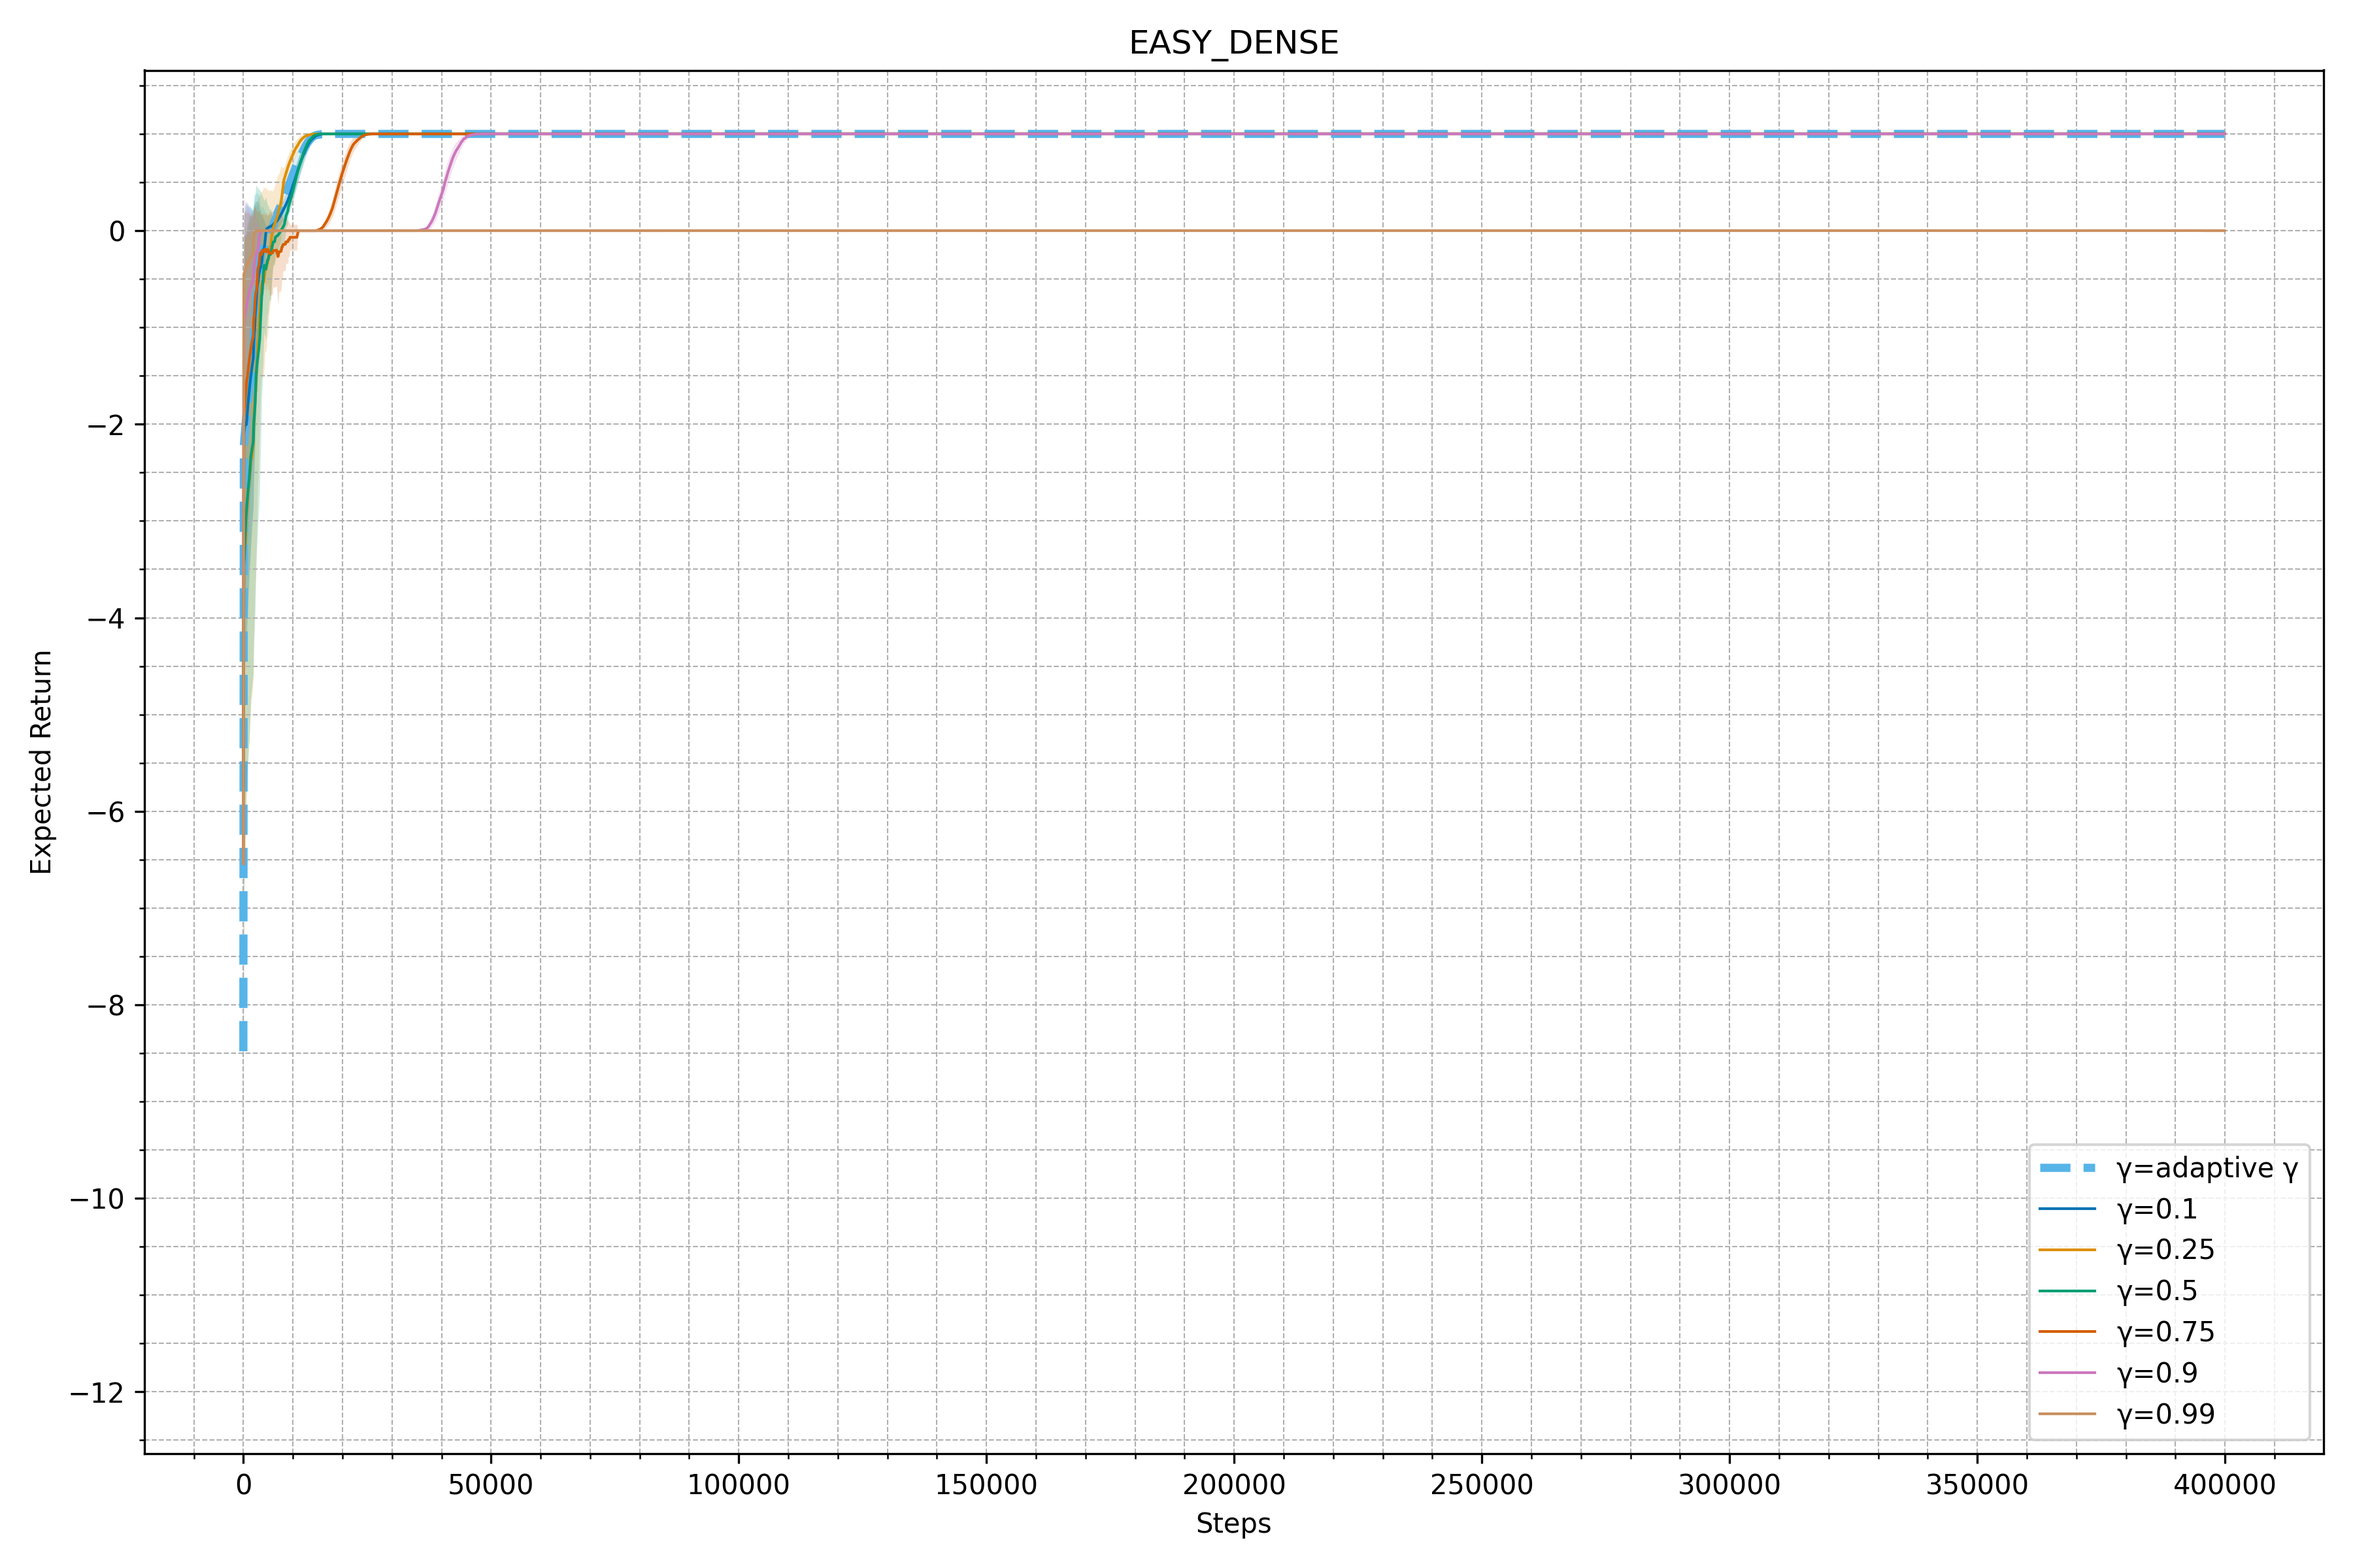
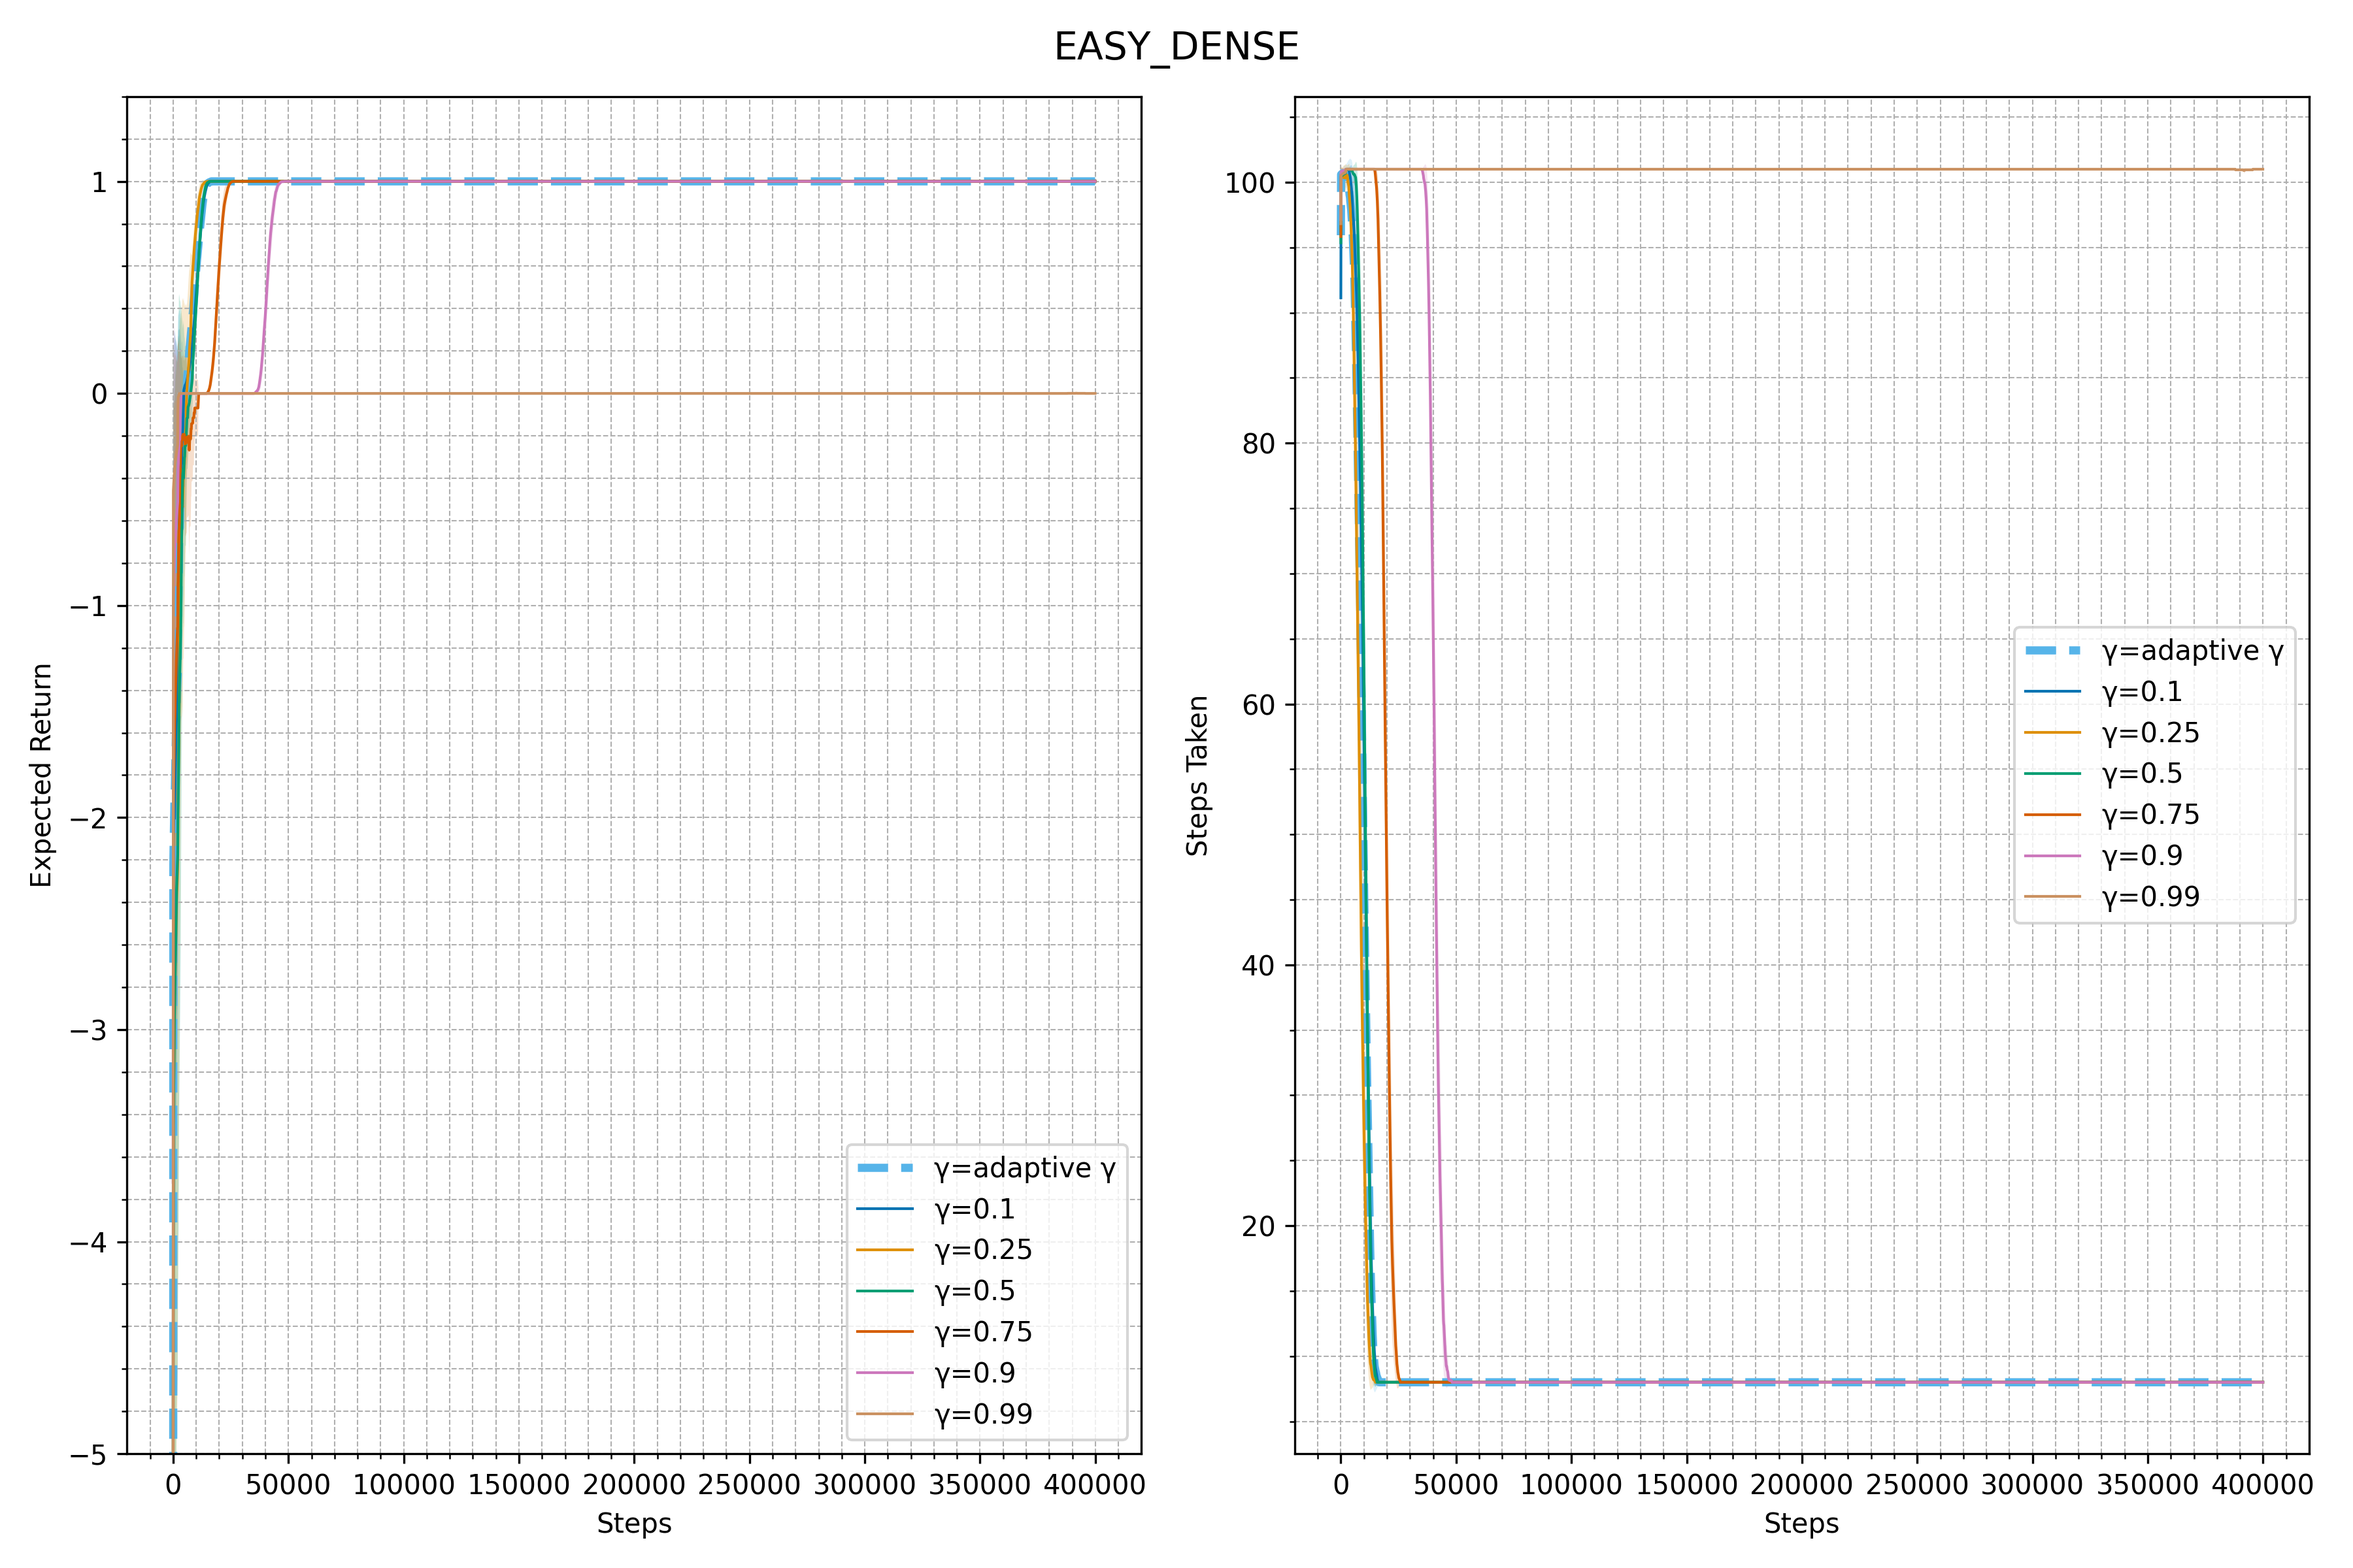
updates in plots

diff --git a/experiments/results/q-plot.py b/experiments/results/q-plot.py
@@ -31,8 +31,10 @@ def plot_separate_gamma_results(environments, gamma_values, plot_dir, eval_steps
     plt.rc("axes", prop_cycle=cycler("color", colorblind_colors))
     colors = sns.color_palette("colorblind", len(gamma_values))
 
-    for env_idx, env_name in enumerate(environments):
-        fig, ax = plt.subplots(figsize=(12, 8))
+    for _, env_name in enumerate(environments):
+        fig, axs = plt.subplots(1, 2, figsize=(12, 8))
+        fig.suptitle(f"{env_name}", fontsize=14)
+
         env_dir_na = os.path.join(save_dir_na, env_name)
         env_dir_a = os.path.join(save_dir_a, env_name)
         env_plot_dir = os.path.join(plot_dir, env_name)
@@ -49,19 +51,31 @@ def plot_separate_gamma_results(environments, gamma_values, plot_dir, eval_steps
             results = pickle.load(f)
 
         exp_ret = results["exp_ret"]
+        exp_steps = results["steps"]
         stepsize = eval_steps
 
         label = f"γ=adaptive γ"
 
         error_shade_plot(
-            ax,
+            axs[0],
             exp_ret,
             stepsize=stepsize,
             smoothing_window=20,
             label=label,
-            linestyle='--',
+            linestyle="--",
             color=colorblind_colors[-1],
-            linewidth=3.0
+            linewidth=3.0,
+        )
+
+        error_shade_plot(
+            axs[1],
+            exp_steps,
+            stepsize=stepsize,
+            smoothing_window=20,
+            label=label,
+            linestyle="--",
+            color=colorblind_colors[-1],
+            linewidth=3.0,
         )
 
         for gamma_idx, gamma in enumerate(gamma_values):
@@ -75,6 +89,7 @@ def plot_separate_gamma_results(environments, gamma_values, plot_dir, eval_steps
                 results = pickle.load(f)
 
             exp_ret = results["exp_ret"]
+            exp_steps = results["steps"]
             stepsize = eval_steps
 
             label = f"γ={gamma}"
@@ -82,22 +97,39 @@ def plot_separate_gamma_results(environments, gamma_values, plot_dir, eval_steps
             color = colors[gamma_idx]
 
             error_shade_plot(
-                ax,
+                axs[0],
                 exp_ret,
                 stepsize=stepsize,
                 smoothing_window=20,
                 label=label,
                 linestyle=linestyle,
                 color=color,
-                linewidth=1.0
+                linewidth=1.0,
             )
 
-        ax.set_xlabel("Steps")
-        ax.set_ylabel("Expected Return")
-        ax.set_title(f"{env_name}")
-        ax.legend(loc="best")
-        ax.grid(True, which="both", linestyle="--", linewidth=0.5)
-        ax.minorticks_on()
+            error_shade_plot(
+                axs[1],
+                exp_steps,
+                stepsize=stepsize,
+                smoothing_window=20,
+                label=label,
+                linestyle=linestyle,
+                color=color,
+                linewidth=1.0,
+            )
+
+        axs[0].set_xlabel("Steps")
+        axs[0].set_ylabel("Expected Return")
+        axs[0].legend(loc="best")
+        axs[0].grid(True, which="both", linestyle="--", linewidth=0.5)
+        axs[0].minorticks_on()
+        axs[0].set_ylim([-5, 1.4])
+
+        axs[1].set_xlabel("Steps")
+        axs[1].set_ylabel("Steps Taken")
+        axs[1].legend(loc="best")
+        axs[1].grid(True, which="both", linestyle="--", linewidth=0.5)
+        axs[1].minorticks_on()
 
         output_path = os.path.join(env_plot_dir, f"{env_name}_{Q_init}.png")
         plt.tight_layout()
